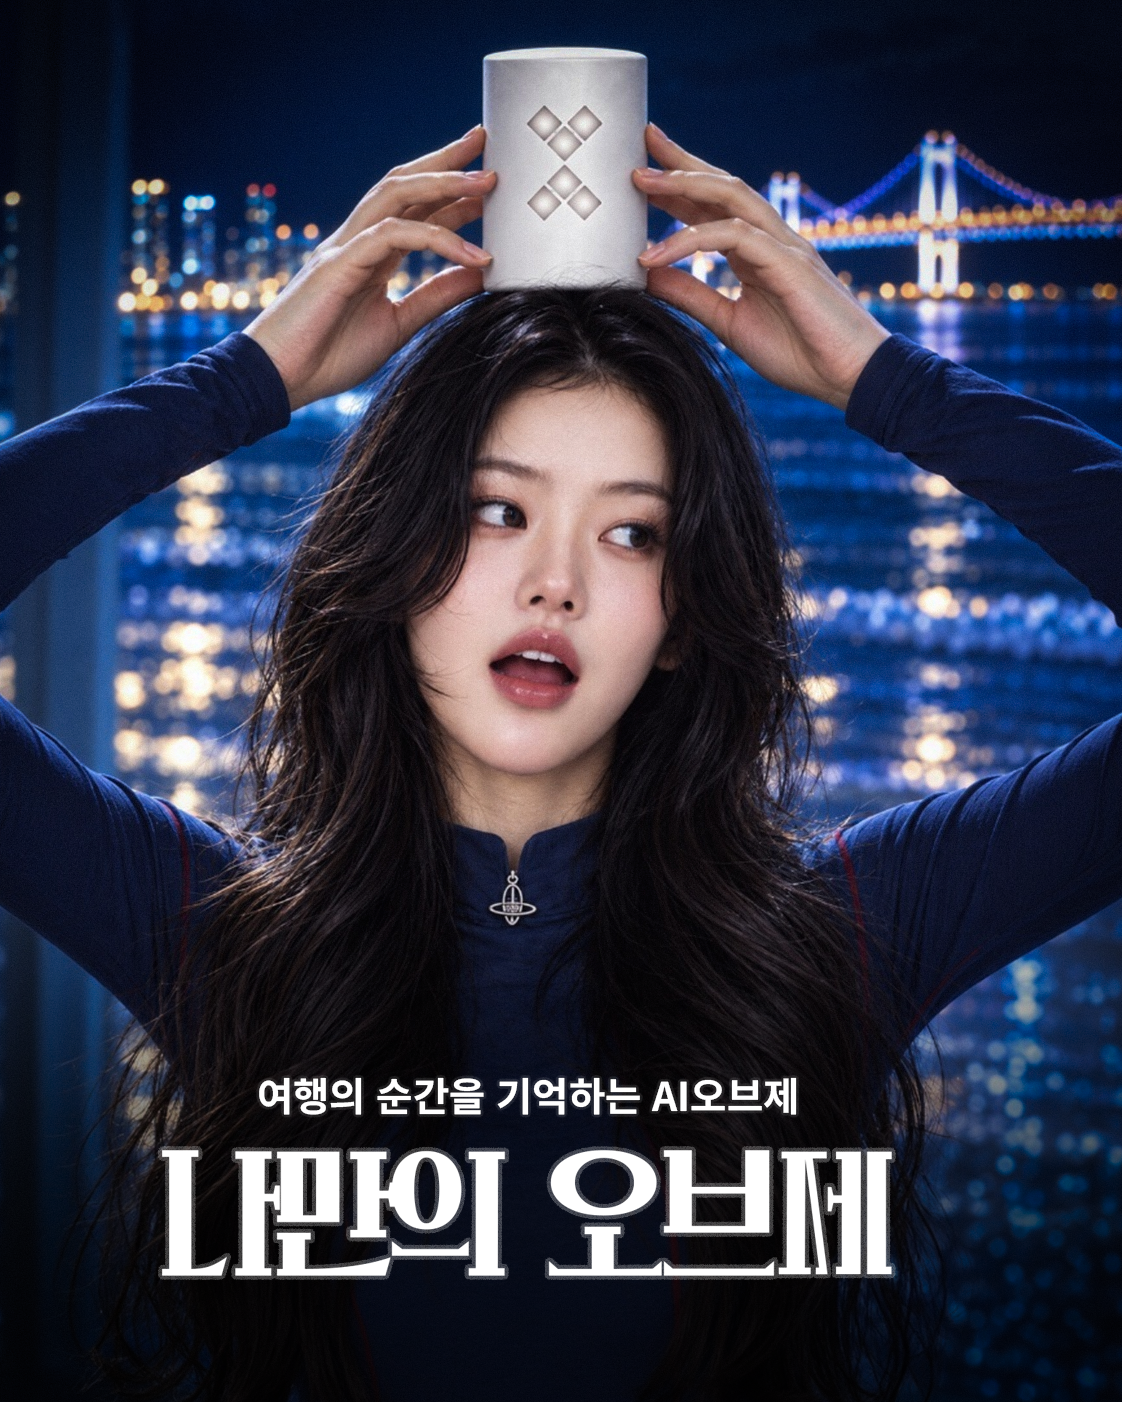
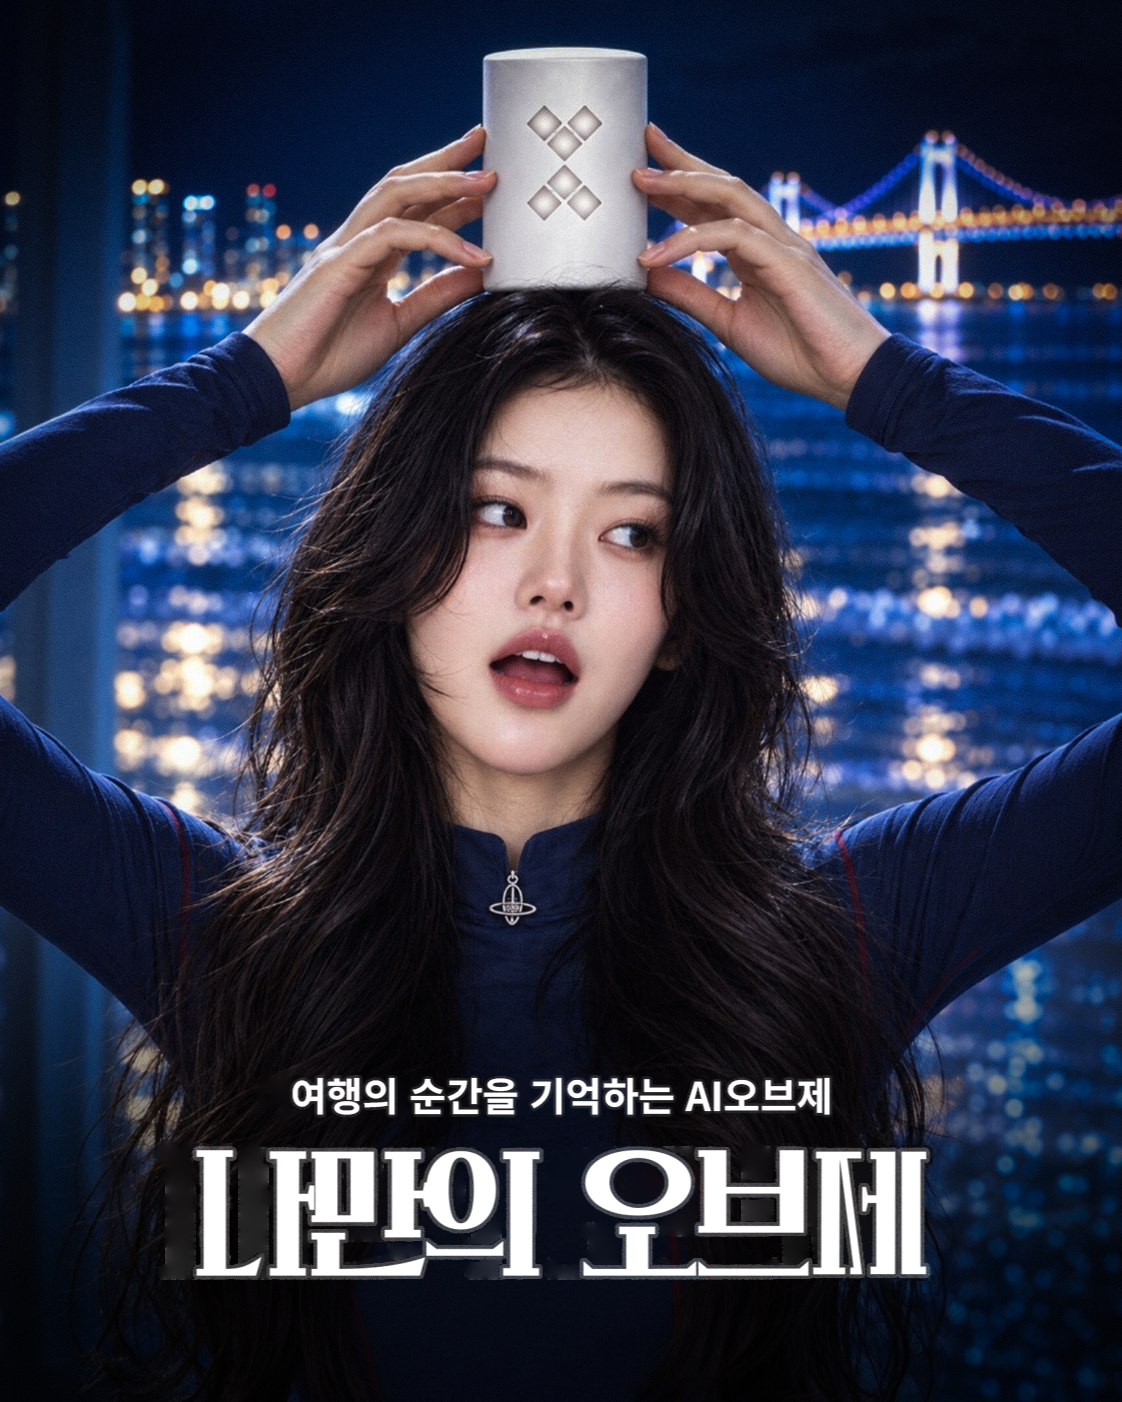
Replace poster with centered artwork

Changed region(s): [[0.1248, 0.7668, 0.8422, 0.9201]]

diff --git a/contents.html b/contents.html
@@ -139,7 +139,7 @@
 
           <a class="project-card poster-project" href="poster-ai-object.html" aria-label="부산 관광 AI 오브제 광고 포스터 상세 페이지 보기">
             <div class="project-thumbnail">
-              <img src="assets/projects/busan-ai-object-poster.png" alt="광안대교 야경을 배경으로 AI 오브제를 든 인물을 표현한 부산 관광 광고 포스터" loading="lazy">
+              <img src="assets/projects/busan-ai-object-poster.png?v=20261004-centered" alt="광안대교 야경을 배경으로 AI 오브제를 든 인물을 표현한 부산 관광 광고 포스터" loading="lazy">
               <span class="project-view">VIEW PROJECT <span aria-hidden="true">↗</span></span>
             </div>
             <div class="project-info">

diff --git a/poster-ai-object.html b/poster-ai-object.html
@@ -60,7 +60,7 @@
         <span>GWANGAN BRIDGE · NIGHT VIEW</span>
       </div>
       <figure class="project-visual">
-        <img src="assets/projects/busan-ai-object-poster.png" alt="광안대교 야경과 AI 오브제를 표현한 나만의 오브제 광고 포스터">
+        <img src="assets/projects/busan-ai-object-poster.png?v=20261004-centered" alt="광안대교 야경과 AI 오브제를 표현한 나만의 오브제 광고 포스터">
         <figcaption>나만의 오브제 · BUSAN TOURISM CONCEPT POSTER</figcaption>
       </figure>
     </section>
